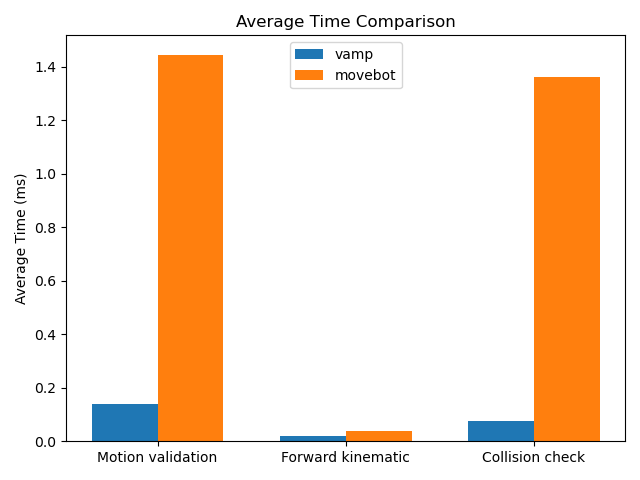
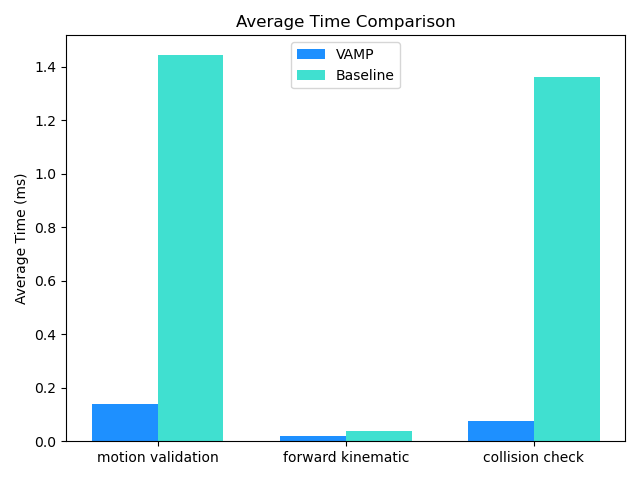
comparison result

diff --git a/compare.py b/compare.py
@@ -32,16 +32,17 @@ def read_and_average_times(folder):
     return mv_avg, fk_avg, cc_avg
 
 folders = {
-    "vamp": "vamp/output",
-    "movebot": "movebot/output"
+    "VAMP": "vamp/output",
+    "Baseline": "movebot/output"
 }
 
-labels = ["Motion validation", "Forward kinematic", "Collision check"]
+labels = ["motion validation", "forward kinematic", "collision check"]
 x = range(len(labels))
 bar_width = 0.35
 mv_avgs = []
 fk_avgs = []
 cc_avgs = []
+colors = ["#1e90ff", "#40e0d0"]
 
 for label, folder in folders.items():
     mv_avg, fk_avg, cc_avg = read_and_average_times(folder)
@@ -51,11 +52,11 @@ for label, folder in folders.items():
 
 fig, ax = plt.subplots()
 for i, label in enumerate(folders.keys()):
-    ax.bar([p + i * bar_width for p in x], [mv_avgs[i], fk_avgs[i], cc_avgs[i]], width=bar_width, label=label)
+    ax.bar([p + i * bar_width for p in x], [mv_avgs[i], fk_avgs[i], cc_avgs[i]], width=bar_width, label=label, color=colors[i])
 
 print(f"VAMP - Motion validation avg: {mv_avgs[0]} ms, Forward kinematic avg: {fk_avgs[0]} ms, Collision check avg: {cc_avgs[0]} ms")
 print(f"Movebot - Motion validation avg: {mv_avgs[1]} ms, Forward kinematic avg: {fk_avgs[1]} ms, Collision check avg: {cc_avgs[1]} ms")
-print(f"difference: Motion validation: x{mv_avgs[1] / mv_avgs[0]} times, Forward kinematic: x{fk_avgs[1] / fk_avgs[0]} times, Collision check: x{cc_avgs[1] / cc_avgs[0]} times")
+print(f"difference: Motion validation: x{(mv_avgs[1] / mv_avgs[0]).6f}, Forward kinematic: x{fk_avgs[1] / fk_avgs[0]}, Collision check: x{cc_avgs[1] / cc_avgs[0]}")
 
 ax.set_xticks([p + bar_width / 2 for p in x])
 ax.set_xticklabels(labels)
